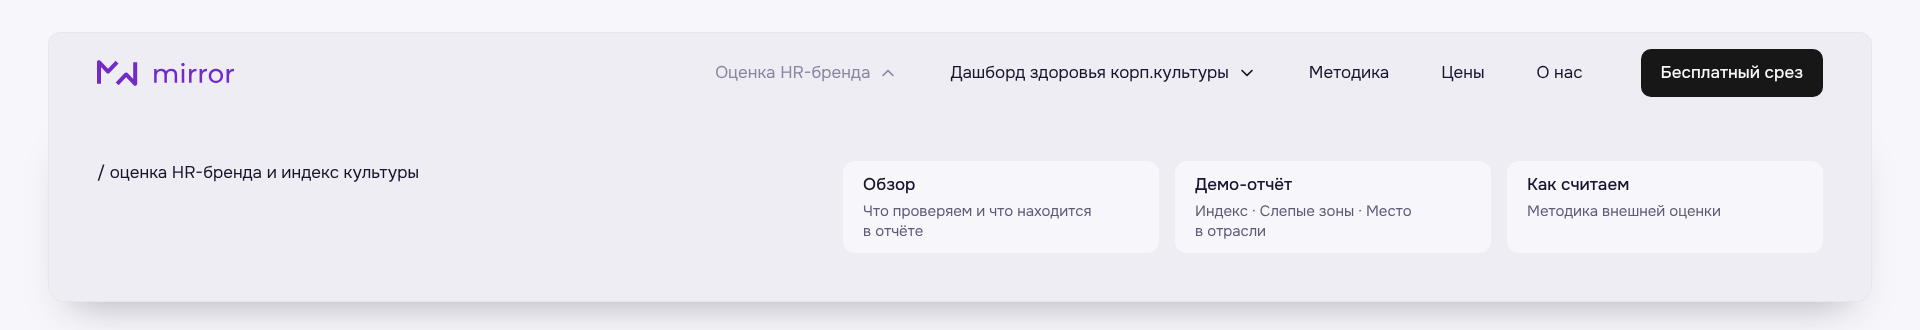
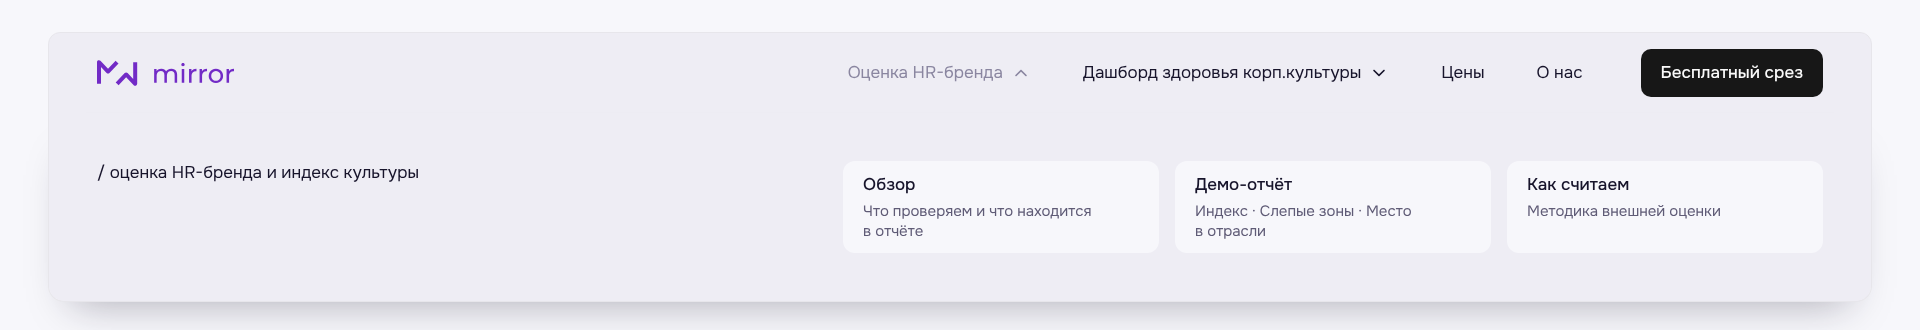
Прототип: убрать «Методику» из меню, тёмная карточка на две колонки сетки шагов
Claude-Session: https://claude.ai/code/session_01CziRzGaG8cPD1LxCJMNndW

Changed region(s): [[0.375, 0.1818, 0.7188, 0.2424]]

diff --git a/prototype/home/dist/pricing.html b/prototype/home/dist/pricing.html
@@ -1151,7 +1151,8 @@ form.form { display: flex; flex-direction: column; gap: 32px; }
 .pstep__no { font: 400 var(--fs-mono)/27px var(--font-mono); color: var(--c-ink-4); }
 .pstep__text { display: flex; flex-direction: column; gap: 16px; }
 .pstep__text h3, .pnext h3 { font: 600 var(--fs-cta)/var(--lh-cta) var(--font-sans); color: #171717; }
-.pnext { display: grid; grid-template-columns: minmax(0, 1fr) minmax(0, 720px); gap: 16px; min-height: 380px; }
+.pnext { display: grid; grid-template-columns: repeat(3, minmax(0, 1fr)); gap: 16px; min-height: 380px; } /* та же сетка, что у шагов */
+.pnext__dark { grid-column: span 2; }
 .pnext__dark { display: flex; flex-direction: column; justify-content: space-between; gap: 48px; padding: clamp(24px, 2.5vw, 48px); border-radius: var(--r-card); background: var(--c-dark); color: #fff; transition: background .2s; }
 .pnext__dark h3 { color: #fff; }
 .pnext__dark div { display: flex; flex-direction: column; gap: 16px; max-width: 560px; }
@@ -1161,6 +1162,7 @@ form.form { display: flex; flex-direction: column; gap: 32px; }
 .pnext__card .btn-link { margin-left: -10px; }
 @media (max-width: 1279px) {
   .qpanel, .rsplit, .pnext { grid-template-columns: minmax(0, 1fr); }
+  .pnext__dark { grid-column: auto; }
   .qpanel__vis { margin: 0 24px 24px; }
   .qmap--page { grid-template-columns: minmax(0, 1fr) minmax(0, 1fr); padding: 24px; }
   .qmap--page .qmap__chart { justify-self: center; }
@@ -1257,7 +1259,6 @@ form.form { display: flex; flex-direction: column; gap: 32px; }
 <path d="M14.4109 6.91089C14.7363 6.58547 15.2638 6.58546 15.5893 6.91089C15.9146 7.23633 15.9147 7.76386 15.5893 8.08928L10.5893 13.0893C10.2638 13.4147 9.73632 13.4147 9.41088 13.0893L4.41088 8.08928C4.08544 7.76384 4.08544 7.23633 4.41088 6.91089C4.73632 6.58547 5.26383 6.58546 5.58927 6.91089L10.0001 11.3217L14.4109 6.91089Z" fill="currentColor"/>
 </g>
 </svg></button></li>
-            <li><a class="nav__item" href="methodology.html">Методика</a></li>
             <li><a class="nav__item" href="pricing.html" aria-current="page">Цены</a></li>
             <li><a class="nav__item" href="#">О нас</a></li>
           </ul>
@@ -1299,7 +1300,6 @@ form.form { display: flex; flex-direction: column; gap: 32px; }
               <a class="mega__card" href="#"><b>Как считаем</b><span>Методика внутреннего замера</span></a>
             </div>
             <div class="mega__cards">
-              <a class="mega__card" href="methodology.html"><b>Методика</b></a>
               <a class="mega__card" href="pricing.html"><b>Цены</b></a>
               <a class="mega__card" href="#"><b>О нас</b></a>
             </div>

diff --git a/prototype/home/dist/hr-brand.html b/prototype/home/dist/hr-brand.html
@@ -1151,7 +1151,8 @@ form.form { display: flex; flex-direction: column; gap: 32px; }
 .pstep__no { font: 400 var(--fs-mono)/27px var(--font-mono); color: var(--c-ink-4); }
 .pstep__text { display: flex; flex-direction: column; gap: 16px; }
 .pstep__text h3, .pnext h3 { font: 600 var(--fs-cta)/var(--lh-cta) var(--font-sans); color: #171717; }
-.pnext { display: grid; grid-template-columns: minmax(0, 1fr) minmax(0, 720px); gap: 16px; min-height: 380px; }
+.pnext { display: grid; grid-template-columns: repeat(3, minmax(0, 1fr)); gap: 16px; min-height: 380px; } /* та же сетка, что у шагов */
+.pnext__dark { grid-column: span 2; }
 .pnext__dark { display: flex; flex-direction: column; justify-content: space-between; gap: 48px; padding: clamp(24px, 2.5vw, 48px); border-radius: var(--r-card); background: var(--c-dark); color: #fff; transition: background .2s; }
 .pnext__dark h3 { color: #fff; }
 .pnext__dark div { display: flex; flex-direction: column; gap: 16px; max-width: 560px; }
@@ -1161,6 +1162,7 @@ form.form { display: flex; flex-direction: column; gap: 32px; }
 .pnext__card .btn-link { margin-left: -10px; }
 @media (max-width: 1279px) {
   .qpanel, .rsplit, .pnext { grid-template-columns: minmax(0, 1fr); }
+  .pnext__dark { grid-column: auto; }
   .qpanel__vis { margin: 0 24px 24px; }
   .qmap--page { grid-template-columns: minmax(0, 1fr) minmax(0, 1fr); padding: 24px; }
   .qmap--page .qmap__chart { justify-self: center; }
@@ -1257,7 +1259,6 @@ form.form { display: flex; flex-direction: column; gap: 32px; }
 <path d="M14.4109 6.91089C14.7363 6.58547 15.2638 6.58546 15.5893 6.91089C15.9146 7.23633 15.9147 7.76386 15.5893 8.08928L10.5893 13.0893C10.2638 13.4147 9.73632 13.4147 9.41088 13.0893L4.41088 8.08928C4.08544 7.76384 4.08544 7.23633 4.41088 6.91089C4.73632 6.58547 5.26383 6.58546 5.58927 6.91089L10.0001 11.3217L14.4109 6.91089Z" fill="currentColor"/>
 </g>
 </svg></button></li>
-            <li><a class="nav__item" href="methodology.html">Методика</a></li>
             <li><a class="nav__item" href="pricing.html">Цены</a></li>
             <li><a class="nav__item" href="#">О нас</a></li>
           </ul>
@@ -1299,7 +1300,6 @@ form.form { display: flex; flex-direction: column; gap: 32px; }
               <a class="mega__card" href="#"><b>Как считаем</b><span>Методика внутреннего замера</span></a>
             </div>
             <div class="mega__cards">
-              <a class="mega__card" href="methodology.html"><b>Методика</b></a>
               <a class="mega__card" href="pricing.html"><b>Цены</b></a>
               <a class="mega__card" href="#"><b>О нас</b></a>
             </div>

diff --git a/prototype/home/dist/index.html b/prototype/home/dist/index.html
@@ -1151,7 +1151,8 @@ form.form { display: flex; flex-direction: column; gap: 32px; }
 .pstep__no { font: 400 var(--fs-mono)/27px var(--font-mono); color: var(--c-ink-4); }
 .pstep__text { display: flex; flex-direction: column; gap: 16px; }
 .pstep__text h3, .pnext h3 { font: 600 var(--fs-cta)/var(--lh-cta) var(--font-sans); color: #171717; }
-.pnext { display: grid; grid-template-columns: minmax(0, 1fr) minmax(0, 720px); gap: 16px; min-height: 380px; }
+.pnext { display: grid; grid-template-columns: repeat(3, minmax(0, 1fr)); gap: 16px; min-height: 380px; } /* та же сетка, что у шагов */
+.pnext__dark { grid-column: span 2; }
 .pnext__dark { display: flex; flex-direction: column; justify-content: space-between; gap: 48px; padding: clamp(24px, 2.5vw, 48px); border-radius: var(--r-card); background: var(--c-dark); color: #fff; transition: background .2s; }
 .pnext__dark h3 { color: #fff; }
 .pnext__dark div { display: flex; flex-direction: column; gap: 16px; max-width: 560px; }
@@ -1161,6 +1162,7 @@ form.form { display: flex; flex-direction: column; gap: 32px; }
 .pnext__card .btn-link { margin-left: -10px; }
 @media (max-width: 1279px) {
   .qpanel, .rsplit, .pnext { grid-template-columns: minmax(0, 1fr); }
+  .pnext__dark { grid-column: auto; }
   .qpanel__vis { margin: 0 24px 24px; }
   .qmap--page { grid-template-columns: minmax(0, 1fr) minmax(0, 1fr); padding: 24px; }
   .qmap--page .qmap__chart { justify-self: center; }
@@ -1257,7 +1259,6 @@ form.form { display: flex; flex-direction: column; gap: 32px; }
 <path d="M14.4109 6.91089C14.7363 6.58547 15.2638 6.58546 15.5893 6.91089C15.9146 7.23633 15.9147 7.76386 15.5893 8.08928L10.5893 13.0893C10.2638 13.4147 9.73632 13.4147 9.41088 13.0893L4.41088 8.08928C4.08544 7.76384 4.08544 7.23633 4.41088 6.91089C4.73632 6.58547 5.26383 6.58546 5.58927 6.91089L10.0001 11.3217L14.4109 6.91089Z" fill="currentColor"/>
 </g>
 </svg></button></li>
-            <li><a class="nav__item" href="methodology.html">Методика</a></li>
             <li><a class="nav__item" href="pricing.html">Цены</a></li>
             <li><a class="nav__item" href="#">О нас</a></li>
           </ul>
@@ -1299,7 +1300,6 @@ form.form { display: flex; flex-direction: column; gap: 32px; }
               <a class="mega__card" href="#"><b>Как считаем</b><span>Методика внутреннего замера</span></a>
             </div>
             <div class="mega__cards">
-              <a class="mega__card" href="methodology.html"><b>Методика</b></a>
               <a class="mega__card" href="pricing.html"><b>Цены</b></a>
               <a class="mega__card" href="#"><b>О нас</b></a>
             </div>

diff --git a/prototype/home/src/styles.css b/prototype/home/src/styles.css
@@ -1141,7 +1141,8 @@ form.form { display: flex; flex-direction: column; gap: 32px; }
 .pstep__no { font: 400 var(--fs-mono)/27px var(--font-mono); color: var(--c-ink-4); }
 .pstep__text { display: flex; flex-direction: column; gap: 16px; }
 .pstep__text h3, .pnext h3 { font: 600 var(--fs-cta)/var(--lh-cta) var(--font-sans); color: #171717; }
-.pnext { display: grid; grid-template-columns: minmax(0, 1fr) minmax(0, 720px); gap: 16px; min-height: 380px; }
+.pnext { display: grid; grid-template-columns: repeat(3, minmax(0, 1fr)); gap: 16px; min-height: 380px; } /* та же сетка, что у шагов */
+.pnext__dark { grid-column: span 2; }
 .pnext__dark { display: flex; flex-direction: column; justify-content: space-between; gap: 48px; padding: clamp(24px, 2.5vw, 48px); border-radius: var(--r-card); background: var(--c-dark); color: #fff; transition: background .2s; }
 .pnext__dark h3 { color: #fff; }
 .pnext__dark div { display: flex; flex-direction: column; gap: 16px; max-width: 560px; }
@@ -1151,6 +1152,7 @@ form.form { display: flex; flex-direction: column; gap: 32px; }
 .pnext__card .btn-link { margin-left: -10px; }
 @media (max-width: 1279px) {
   .qpanel, .rsplit, .pnext { grid-template-columns: minmax(0, 1fr); }
+  .pnext__dark { grid-column: auto; }
   .qpanel__vis { margin: 0 24px 24px; }
   .qmap--page { grid-template-columns: minmax(0, 1fr) minmax(0, 1fr); padding: 24px; }
   .qmap--page .qmap__chart { justify-self: center; }

diff --git a/prototype/home/partials/header.html b/prototype/home/partials/header.html
@@ -6,7 +6,6 @@
           <ul class="nav__list">
             <li><button class="nav__item" type="button" aria-expanded="false" aria-controls="mega" data-panel="brand">Оценка HR-бренда {{svgc:chevron-down.svg}}</button></li>
             <li><button class="nav__item" type="button" aria-expanded="false" aria-controls="mega" data-panel="health">Дашборд здоровья корп.культуры {{svgc:chevron-down.svg}}</button></li>
-            <li><a class="nav__item" href="{{href:methodology}}"{{current:methodology}}>Методика</a></li>
             <li><a class="nav__item" href="{{href:pricing}}"{{current:pricing}}>Цены</a></li>
             <li><a class="nav__item" href="{{href:about}}"{{current:about}}>О нас</a></li>
           </ul>
@@ -48,7 +47,6 @@
               <a class="mega__card" href="{{href:methodology-health}}"><b>Как считаем</b><span>Методика внутреннего замера</span></a>
             </div>
             <div class="mega__cards">
-              <a class="mega__card" href="{{href:methodology}}"><b>Методика</b></a>
               <a class="mega__card" href="{{href:pricing}}"><b>Цены</b></a>
               <a class="mega__card" href="{{href:about}}"><b>О нас</b></a>
             </div>
